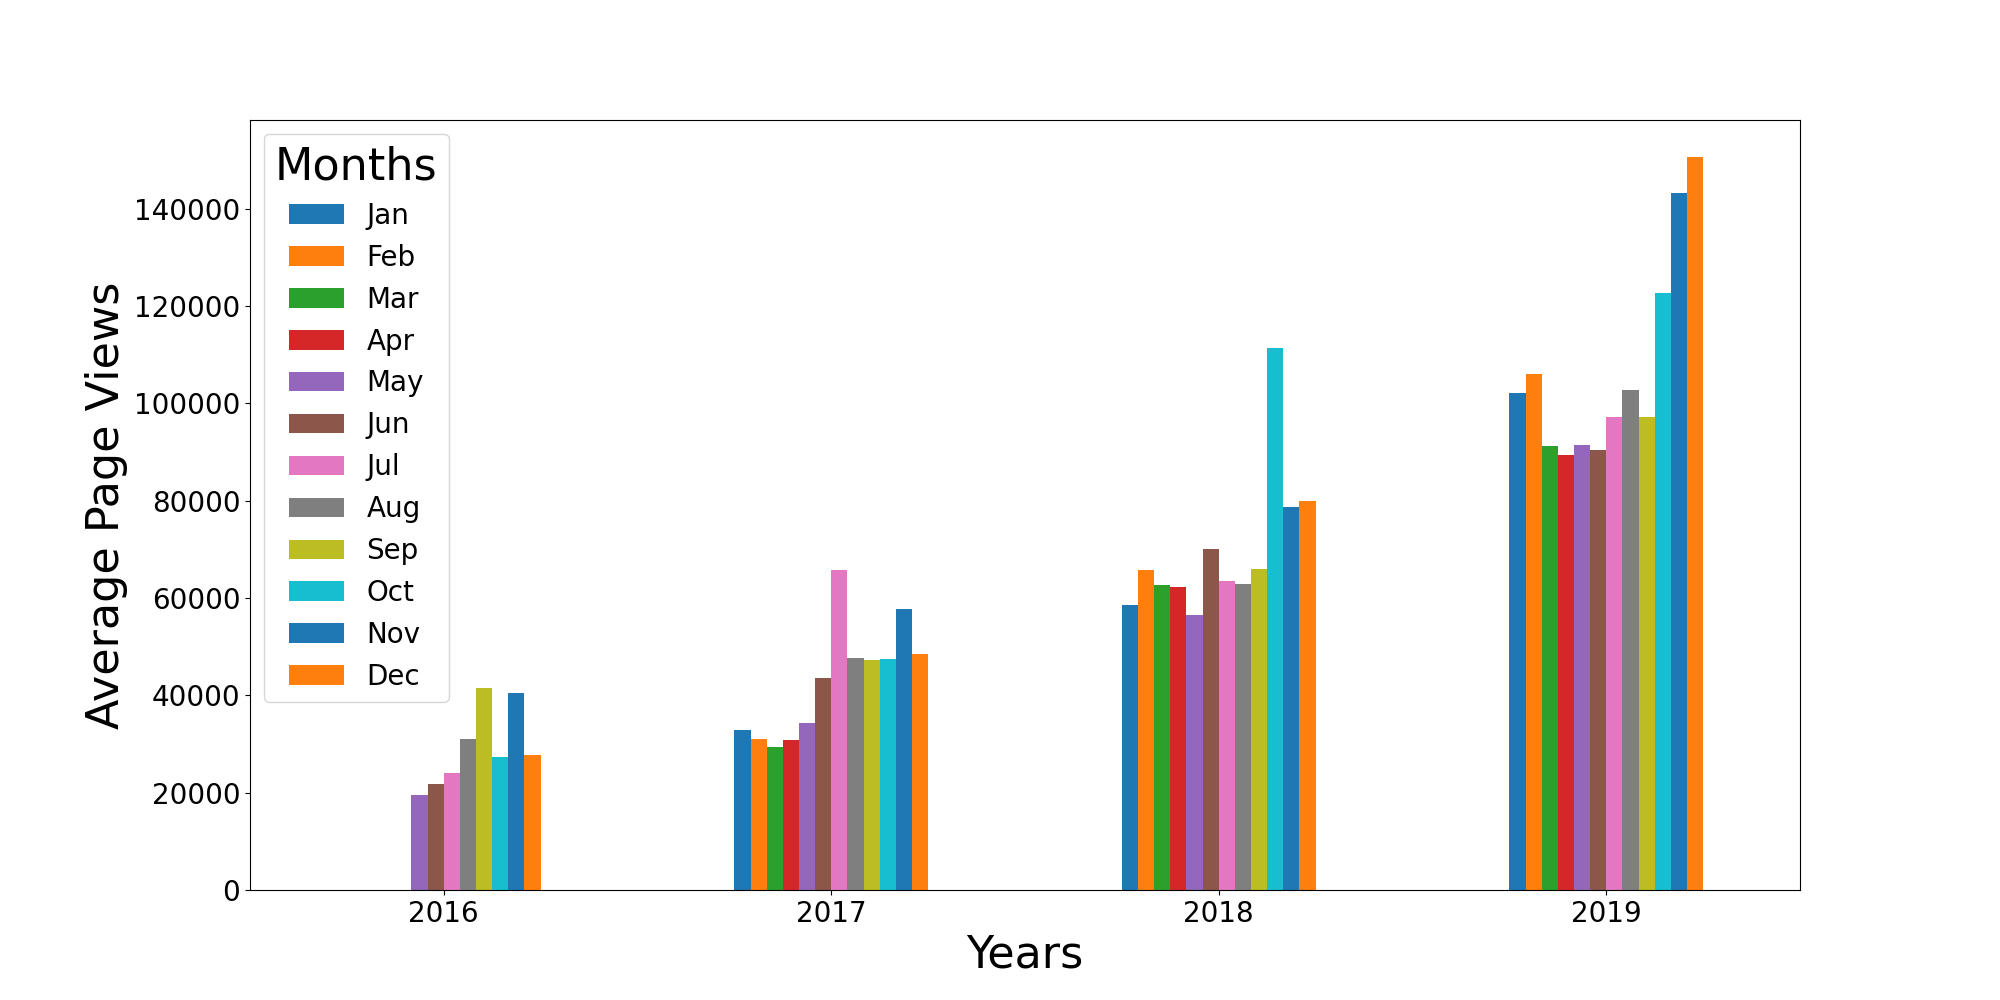
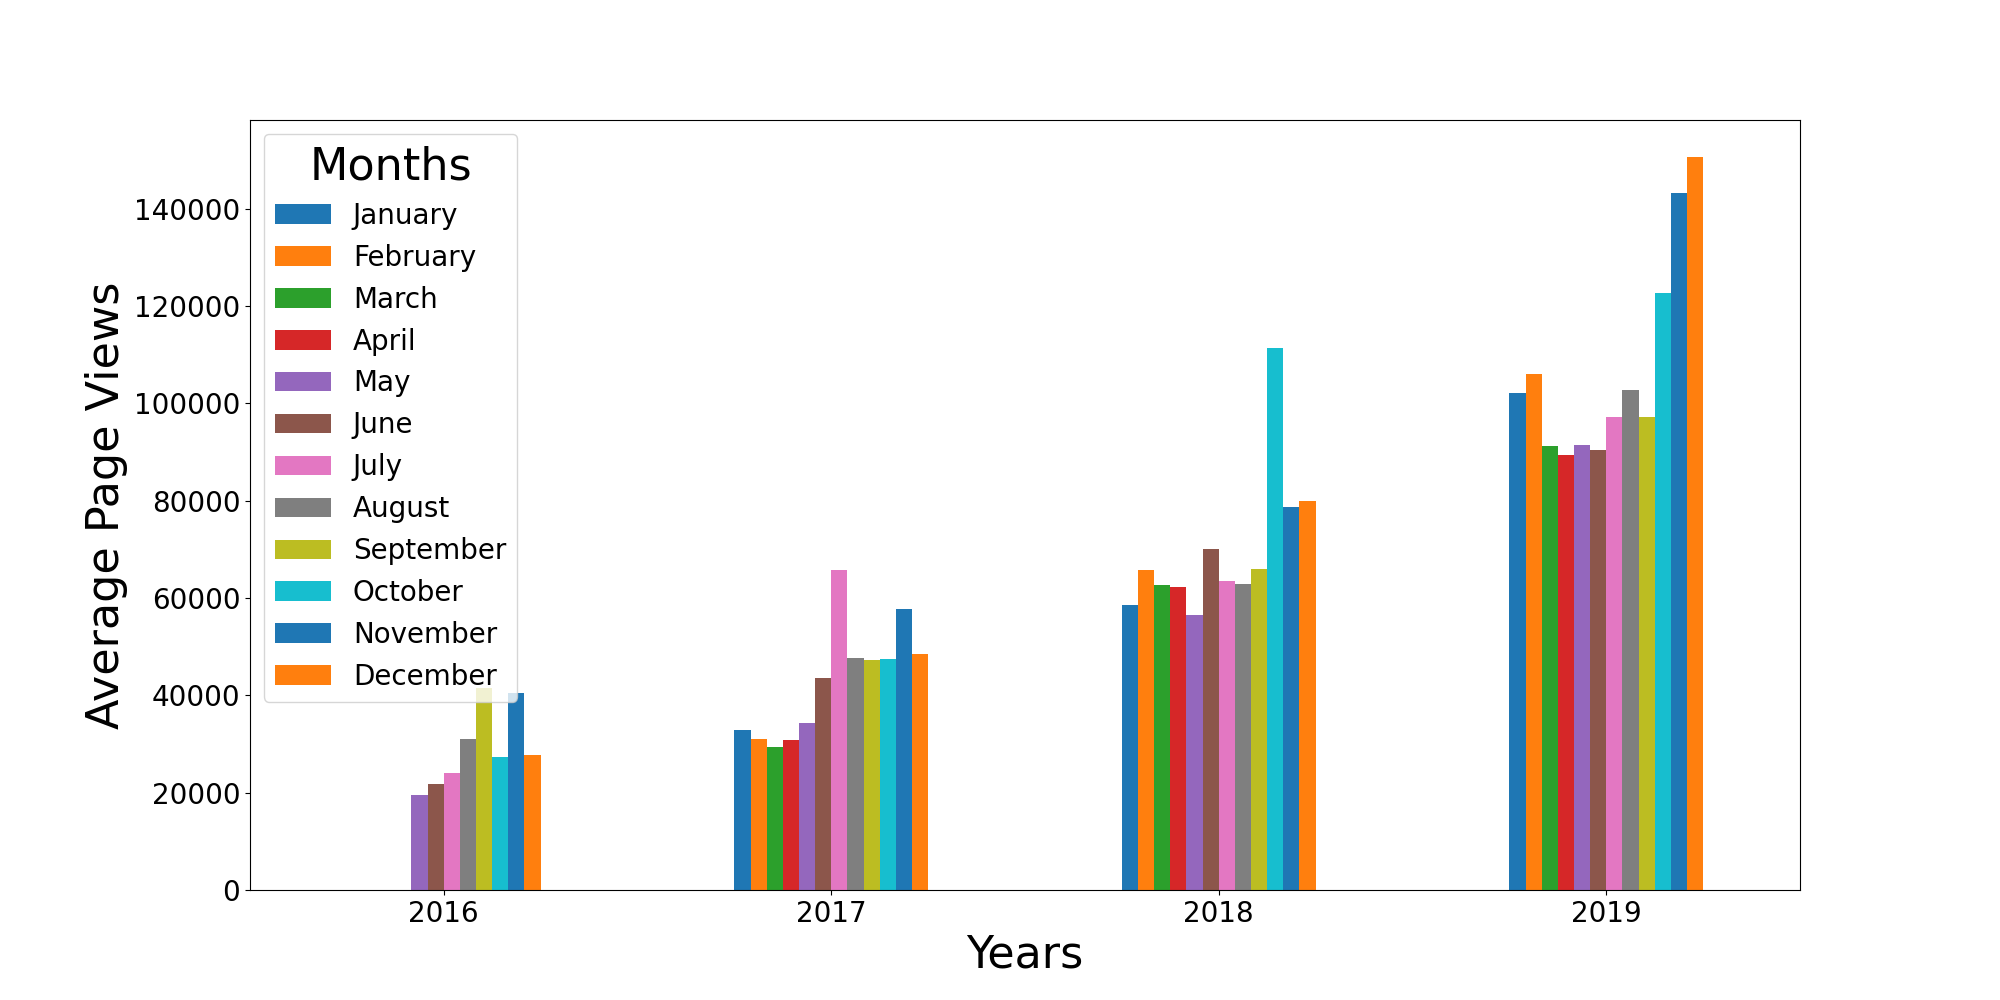
done 3

Changed region(s): [[0.124, 0.155, 0.248, 0.713]]

diff --git a/time_series_visualizer.py b/time_series_visualizer.py
@@ -37,7 +37,7 @@ def draw_bar_plot():
 
     ax.set_xlabel('Years', fontdict={'size': 32})
     ax.set_ylabel('Average Page Views', fontdict={'size': 32})
-    ax.legend(title='Months', fontsize=20, title_fontsize='32')
+    ax.legend(['January', 'February', 'March', 'April', 'May', 'June', 'July', 'August', 'September', 'October', 'November', 'December'], title='Months', fontsize=20, title_fontsize='32')
 
     # Save image and return fig (don't change this part)
     fig.savefig('bar_plot.png')
@@ -48,13 +48,23 @@ def draw_box_plot():
     df_box = df.copy()
     df_box.reset_index(inplace=True)
     df_box['year'] = [d.year for d in df_box.date]
-    df_box['month'] = [d.strftime('%b') for d in df_box.date]
+    months = ["Jan", "Feb", "Mar", "Apr", "May", "Jun", 
+          "Jul", "Aug", "Sep", "Oct", "Nov", "Dec"]
+    df_box['month'] = pd.Categorical([d.strftime('%b') for d in df_box.date], categories=months, ordered=True)
 
     # Draw box plots (using Seaborn)
-
-
-
-
+    fig, (ax1, ax2) = plt.subplots(1, 2, figsize=(20, 10))
+    sns.boxplot(data=df_box, x='year', y='value', hue="year", ax=ax1)
+    sns.boxplot(data=df_box, x='month', y='value', hue="month", ax=ax2)
+    plt.show(block=False)
+    
+    ax1.set_title('Year-wise Box Plot (Trend)')
+    ax2.set_title('Month-wise Box Plot (Seasonality)')
+    ax1.set_xlabel('Year')
+    ax1.set_ylabel('Page Views')
+    ax2.set_xlabel('Month')
+    ax2.set_ylabel('Page Views')
+    
 
     # Save image and return fig (don't change this part)
     fig.savefig('box_plot.png')
